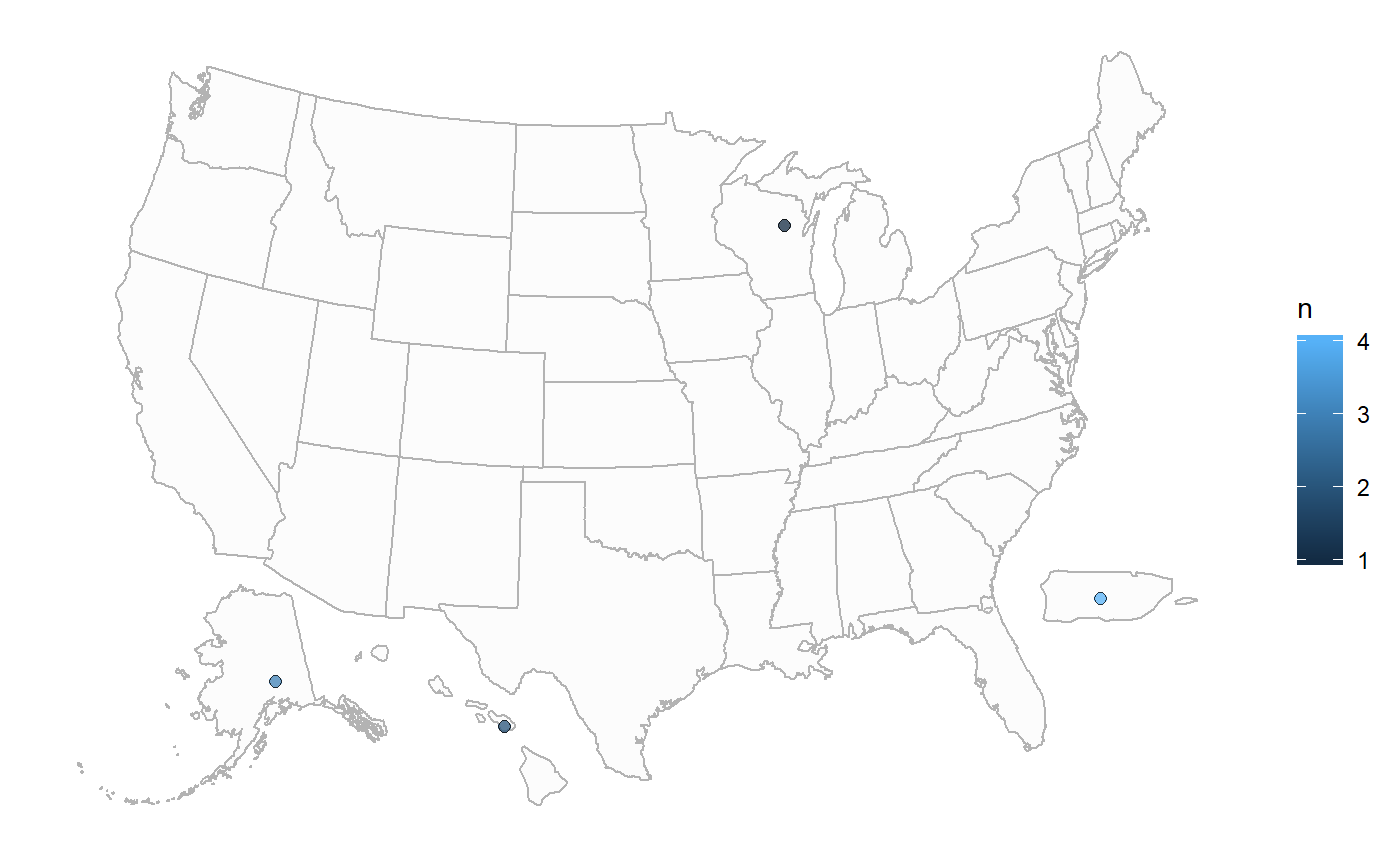
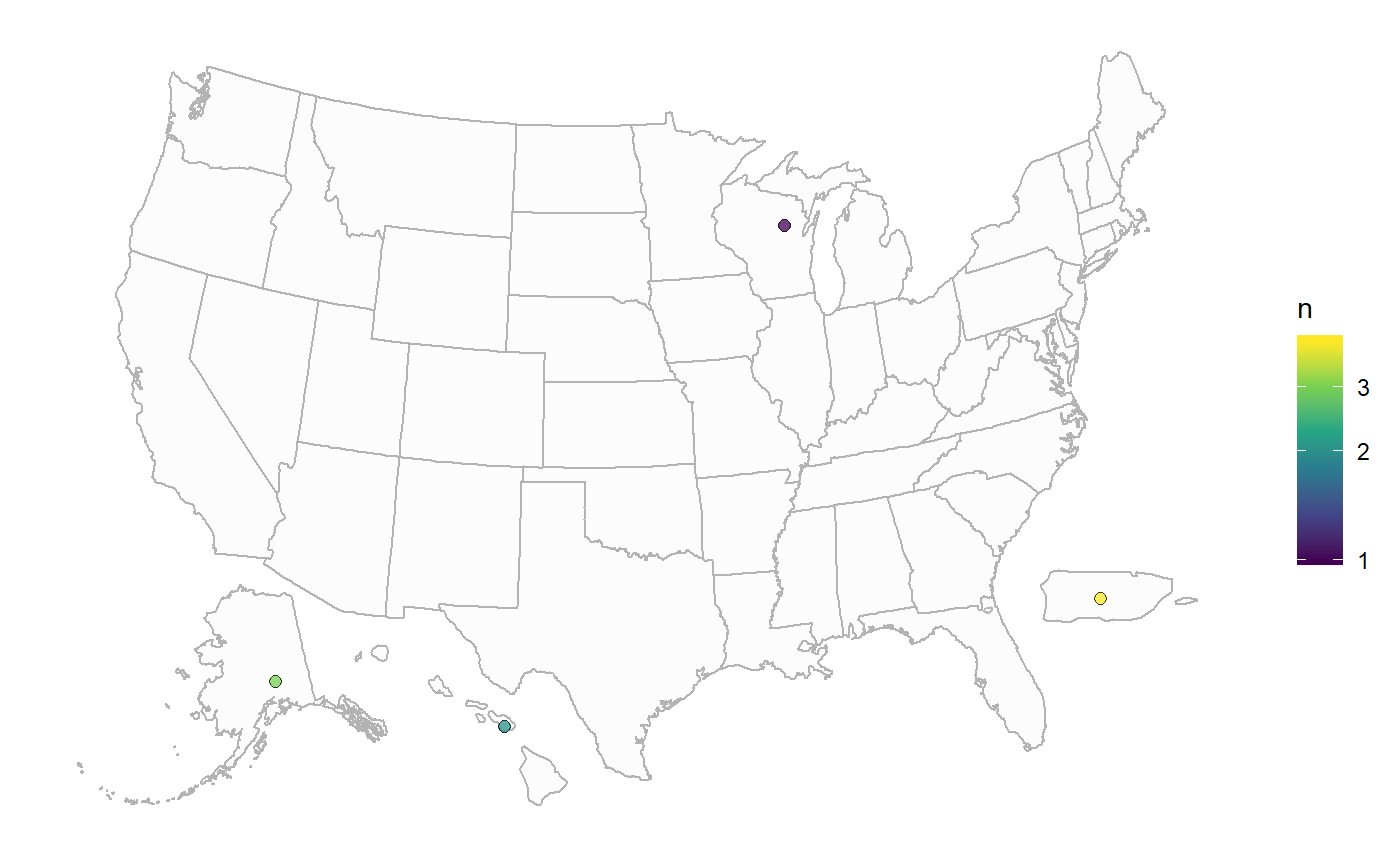
Updating map article

Changed region(s): [[0.9214, 0.3746, 0.9829, 0.6555], [0.7679, 0.6867, 0.7986, 0.7179]]

diff --git a/docs/articles/usMaps.html b/docs/articles/usMaps.html
@@ -5,7 +5,7 @@
 <meta charset="utf-8">
 <meta http-equiv="X-UA-Compatible" content="IE=edge">
 <meta name="viewport" content="width=device-width, initial-scale=1.0">
-<title>Map Stuff • dataRetrieval</title>
+<title>Mapping Points • dataRetrieval</title>
 <!-- favicons --><link rel="icon" type="image/png" sizes="16x16" href="../favicon-16x16.png">
 <link rel="icon" type="image/png" sizes="32x32" href="../favicon-32x32.png">
 <link rel="apple-touch-icon" type="image/png" sizes="180x180" href="../apple-touch-icon.png">
@@ -16,7 +16,7 @@
 <script src="https://cdnjs.cloudflare.com/ajax/libs/twitter-bootstrap/3.3.7/js/bootstrap.min.js" integrity="sha256-U5ZEeKfGNOja007MMD3YBI0A3OSZOQbeG6z2f2Y0hu8=" crossorigin="anonymous"></script><!-- Font Awesome icons --><link rel="stylesheet" href="https://cdnjs.cloudflare.com/ajax/libs/font-awesome/5.7.1/css/all.min.css" integrity="sha256-nAmazAk6vS34Xqo0BSrTb+abbtFlgsFK7NKSi6o7Y78=" crossorigin="anonymous">
 <link rel="stylesheet" href="https://cdnjs.cloudflare.com/ajax/libs/font-awesome/5.7.1/css/v4-shims.min.css" integrity="sha256-6qHlizsOWFskGlwVOKuns+D1nB6ssZrHQrNj1wGplHc=" crossorigin="anonymous">
 <!-- clipboard.js --><script src="https://cdnjs.cloudflare.com/ajax/libs/clipboard.js/2.0.4/clipboard.min.js" integrity="sha256-FiZwavyI2V6+EXO1U+xzLG3IKldpiTFf3153ea9zikQ=" crossorigin="anonymous"></script><!-- sticky kit --><script src="https://cdnjs.cloudflare.com/ajax/libs/sticky-kit/1.1.3/sticky-kit.min.js" integrity="sha256-c4Rlo1ZozqTPE2RLuvbusY3+SU1pQaJC0TjuhygMipw=" crossorigin="anonymous"></script><!-- pkgdown --><link href="../pkgdown.css" rel="stylesheet">
-<script src="../pkgdown.js"></script><meta property="og:title" content="Map Stuff">
+<script src="../pkgdown.js"></script><meta property="og:title" content="Mapping Points">
 <meta property="og:description" content="">
 <meta property="og:image" content="/logo.png">
 <meta name="twitter:card" content="summary">
@@ -97,7 +97,7 @@
       </header><div class="row">
   <div class="col-md-9 contents">
     <div class="page-header toc-ignore">
-      <h1>Map Stuff</h1>
+      <h1>Mapping Points</h1>
                         <h4 class="author">Laura DeCicco</h4>
             
             <h4 class="date">2019-04-05</h4>
@@ -196,13 +196,14 @@
 <a class="sourceLine" id="cb4-33" title="33">  <span class="kw"><a href="https://www.rdocumentation.org/packages/base/topics/function">return</a></span>(sites.df)</a>
 <a class="sourceLine" id="cb4-34" title="34">  </a>
 <a class="sourceLine" id="cb4-35" title="35">}</a></code></pre></div>
+<p>Then, we create a pretty generic mapping function. This is all <code>ggplot2</code> code, and might be more appropriate outside of a function for complete customization. In this case, we want the ability to create a “quick-and-dirty” map.</p>
 <div class="sourceCode" id="cb5"><pre class="sourceCode r"><code class="sourceCode r"><a class="sourceLine" id="cb5-1" title="1">plot_points_on_map &lt;-<span class="st"> </span><span class="cf">function</span>(x, move_variables, stuff_to_move,</a>
-<a class="sourceLine" id="cb5-2" title="2">                               <span class="dt">scale_by_color =</span> <span class="ot">TRUE</span>, </a>
-<a class="sourceLine" id="cb5-3" title="3">                               <span class="dt">scale_by_size =</span> <span class="ot">FALSE</span>){</a>
-<a class="sourceLine" id="cb5-4" title="4">  </a>
-<a class="sourceLine" id="cb5-5" title="5">  alpha_set &lt;-<span class="st"> </span><span class="fl">0.75</span></a>
-<a class="sourceLine" id="cb5-6" title="6">  base_fill &lt;-<span class="st"> "azure3"</span></a>
-<a class="sourceLine" id="cb5-7" title="7">  </a>
+<a class="sourceLine" id="cb5-2" title="2">                               <span class="dt">pt_size =</span> <span class="dv">2</span>,</a>
+<a class="sourceLine" id="cb5-3" title="3">                               <span class="dt">alpha_set =</span> <span class="fl">0.75</span>,</a>
+<a class="sourceLine" id="cb5-4" title="4">                               <span class="dt">base_fill =</span> <span class="st">"azure3"</span>,</a>
+<a class="sourceLine" id="cb5-5" title="5">                               <span class="dt">scale_by_color =</span> <span class="ot">TRUE</span>, </a>
+<a class="sourceLine" id="cb5-6" title="6">                               <span class="dt">scale_by_size =</span> <span class="ot">FALSE</span>){</a>
+<a class="sourceLine" id="cb5-7" title="7"></a>
 <a class="sourceLine" id="cb5-8" title="8">  <span class="cf">if</span>(<span class="kw"><a href="https://www.rdocumentation.org/packages/base/topics/all">all</a></span>(<span class="kw"><a href="https://www.rdocumentation.org/packages/base/topics/c">c</a></span>(<span class="st">"coords.x1"</span>,<span class="st">"coords.x2"</span>, <span class="st">"n"</span>) <span class="op">%in%</span><span class="st"> </span><span class="kw"><a href="https://www.rdocumentation.org/packages/base/topics/names">names</a></span>(x))){</a>
 <a class="sourceLine" id="cb5-9" title="9">    sites.df &lt;-<span class="st">  </span>x</a>
 <a class="sourceLine" id="cb5-10" title="10">  } <span class="cf">else</span> {</a>
@@ -226,30 +227,32 @@
 <a class="sourceLine" id="cb5-28" title="28">                 <span class="kw">aes</span>(<span class="dt">x =</span> coords.x1, <span class="dt">y=</span>coords.x2, </a>
 <a class="sourceLine" id="cb5-29" title="29">                     <span class="dt">fill =</span> n, <span class="dt">size =</span> n),</a>
 <a class="sourceLine" id="cb5-30" title="30">                 <span class="dt">alpha =</span> alpha_set,</a>
-<a class="sourceLine" id="cb5-31" title="31">                 <span class="dt">color=</span><span class="st">"black"</span>,<span class="dt">pch=</span><span class="dv">21</span>) </a>
-<a class="sourceLine" id="cb5-32" title="32">  } <span class="cf">else</span> <span class="cf">if</span> (scale_by_color){</a>
-<a class="sourceLine" id="cb5-33" title="33">    gsMap &lt;-<span class="st"> </span>gsMap <span class="op">+</span></a>
-<a class="sourceLine" id="cb5-34" title="34"><span class="st">      </span><span class="kw">geom_point</span>(<span class="dt">data =</span> sites.df, </a>
-<a class="sourceLine" id="cb5-35" title="35">                 <span class="kw">aes</span>(<span class="dt">x =</span> coords.x1, <span class="dt">y=</span>coords.x2, </a>
-<a class="sourceLine" id="cb5-36" title="36">                     <span class="dt">fill =</span> n), </a>
-<a class="sourceLine" id="cb5-37" title="37">                 <span class="dt">alpha =</span> alpha_set,</a>
-<a class="sourceLine" id="cb5-38" title="38">                 <span class="dt">size =</span> <span class="dv">2</span>, <span class="dt">color=</span><span class="st">"black"</span>,<span class="dt">pch=</span><span class="dv">21</span>) </a>
-<a class="sourceLine" id="cb5-39" title="39">  } <span class="cf">else</span> <span class="cf">if</span> (scale_by_size){</a>
-<a class="sourceLine" id="cb5-40" title="40">    gsMap &lt;-<span class="st"> </span>gsMap <span class="op">+</span></a>
-<a class="sourceLine" id="cb5-41" title="41"><span class="st">      </span><span class="kw">geom_point</span>(<span class="dt">data =</span> sites.df, </a>
-<a class="sourceLine" id="cb5-42" title="42">                 <span class="kw">aes</span>(<span class="dt">x =</span> coords.x1, <span class="dt">y=</span>coords.x2, </a>
-<a class="sourceLine" id="cb5-43" title="43">                     <span class="dt">size =</span> n), <span class="dt">fill=</span>base_fill, </a>
-<a class="sourceLine" id="cb5-44" title="44">                 <span class="dt">alpha =</span> alpha_set,</a>
-<a class="sourceLine" id="cb5-45" title="45">                 <span class="dt">color=</span><span class="st">"black"</span>,<span class="dt">pch=</span><span class="dv">21</span>) </a>
-<a class="sourceLine" id="cb5-46" title="46">  } <span class="cf">else</span> {</a>
-<a class="sourceLine" id="cb5-47" title="47">    gsMap &lt;-<span class="st"> </span>gsMap <span class="op">+</span></a>
-<a class="sourceLine" id="cb5-48" title="48"><span class="st">      </span><span class="kw">geom_point</span>(<span class="dt">data =</span> sites.df, </a>
-<a class="sourceLine" id="cb5-49" title="49">                 <span class="kw">aes</span>(<span class="dt">x =</span> coords.x1, <span class="dt">y=</span>coords.x2), </a>
-<a class="sourceLine" id="cb5-50" title="50">                 <span class="dt">size =</span> <span class="dv">2</span>, <span class="dt">color=</span><span class="st">"black"</span>,<span class="dt">pch=</span><span class="dv">21</span>,</a>
-<a class="sourceLine" id="cb5-51" title="51">                 <span class="dt">fill=</span>base_fill, <span class="dt">alpha =</span> alpha_set)</a>
-<a class="sourceLine" id="cb5-52" title="52">  }</a>
-<a class="sourceLine" id="cb5-53" title="53">  <span class="kw"><a href="https://www.rdocumentation.org/packages/base/topics/function">return</a></span>(gsMap)</a>
-<a class="sourceLine" id="cb5-54" title="54">}</a></code></pre></div>
+<a class="sourceLine" id="cb5-31" title="31">                 <span class="dt">color=</span><span class="st">"black"</span>,<span class="dt">pch=</span><span class="dv">21</span>) <span class="op">+</span></a>
+<a class="sourceLine" id="cb5-32" title="32"><span class="st">      </span><span class="kw">scale_fill_continuous</span>(<span class="dt">type =</span> <span class="st">"viridis"</span>, <span class="dt">trans =</span> <span class="st">"log10"</span>)</a>
+<a class="sourceLine" id="cb5-33" title="33">  } <span class="cf">else</span> <span class="cf">if</span> (scale_by_color){</a>
+<a class="sourceLine" id="cb5-34" title="34">    gsMap &lt;-<span class="st"> </span>gsMap <span class="op">+</span></a>
+<a class="sourceLine" id="cb5-35" title="35"><span class="st">      </span><span class="kw">geom_point</span>(<span class="dt">data =</span> sites.df, </a>
+<a class="sourceLine" id="cb5-36" title="36">                 <span class="kw">aes</span>(<span class="dt">x =</span> coords.x1, <span class="dt">y=</span>coords.x2, </a>
+<a class="sourceLine" id="cb5-37" title="37">                     <span class="dt">fill =</span> n), </a>
+<a class="sourceLine" id="cb5-38" title="38">                 <span class="dt">alpha =</span> alpha_set,</a>
+<a class="sourceLine" id="cb5-39" title="39">                 <span class="dt">size =</span> pt_size, <span class="dt">color=</span><span class="st">"black"</span>,<span class="dt">pch=</span><span class="dv">21</span>) <span class="op">+</span></a>
+<a class="sourceLine" id="cb5-40" title="40"><span class="st">      </span><span class="kw">scale_fill_continuous</span>(<span class="dt">type =</span> <span class="st">"viridis"</span>, <span class="dt">trans =</span> <span class="st">"log10"</span>)</a>
+<a class="sourceLine" id="cb5-41" title="41">  } <span class="cf">else</span> <span class="cf">if</span> (scale_by_size){</a>
+<a class="sourceLine" id="cb5-42" title="42">    gsMap &lt;-<span class="st"> </span>gsMap <span class="op">+</span></a>
+<a class="sourceLine" id="cb5-43" title="43"><span class="st">      </span><span class="kw">geom_point</span>(<span class="dt">data =</span> sites.df, </a>
+<a class="sourceLine" id="cb5-44" title="44">                 <span class="kw">aes</span>(<span class="dt">x =</span> coords.x1, <span class="dt">y=</span>coords.x2, </a>
+<a class="sourceLine" id="cb5-45" title="45">                     <span class="dt">size =</span> n), <span class="dt">fill=</span>base_fill, </a>
+<a class="sourceLine" id="cb5-46" title="46">                 <span class="dt">alpha =</span> alpha_set,</a>
+<a class="sourceLine" id="cb5-47" title="47">                 <span class="dt">color=</span><span class="st">"black"</span>,<span class="dt">pch=</span><span class="dv">21</span>) </a>
+<a class="sourceLine" id="cb5-48" title="48">  } <span class="cf">else</span> {</a>
+<a class="sourceLine" id="cb5-49" title="49">    gsMap &lt;-<span class="st"> </span>gsMap <span class="op">+</span></a>
+<a class="sourceLine" id="cb5-50" title="50"><span class="st">      </span><span class="kw">geom_point</span>(<span class="dt">data =</span> sites.df, </a>
+<a class="sourceLine" id="cb5-51" title="51">                 <span class="kw">aes</span>(<span class="dt">x =</span> coords.x1, <span class="dt">y=</span>coords.x2), </a>
+<a class="sourceLine" id="cb5-52" title="52">                 <span class="dt">size =</span> pt_size, <span class="dt">color=</span><span class="st">"black"</span>,<span class="dt">pch=</span><span class="dv">21</span>,</a>
+<a class="sourceLine" id="cb5-53" title="53">                 <span class="dt">fill=</span>base_fill, <span class="dt">alpha =</span> alpha_set)</a>
+<a class="sourceLine" id="cb5-54" title="54">  }</a>
+<a class="sourceLine" id="cb5-55" title="55">  <span class="kw"><a href="https://www.rdocumentation.org/packages/base/topics/function">return</a></span>(gsMap)</a>
+<a class="sourceLine" id="cb5-56" title="56">}</a></code></pre></div>
 <p>We’ve fiddled with the scaling, shifting, and rotating to:</p>
 <div class="sourceCode" id="cb6"><pre class="sourceCode r"><code class="sourceCode r"><a class="sourceLine" id="cb6-1" title="1">move_variables &lt;-<span class="st"> </span><span class="kw"><a href="https://www.rdocumentation.org/packages/base/topics/list">list</a></span>(</a>
 <a class="sourceLine" id="cb6-2" title="2">  <span class="dt">AK =</span> <span class="kw"><a href="https://www.rdocumentation.org/packages/base/topics/list">list</a></span>(<span class="dt">scale=</span><span class="fl">0.47</span>, <span class="dt">shift =</span> <span class="kw"><a href="https://www.rdocumentation.org/packages/base/topics/c">c</a></span>(<span class="dv">90</span>,<span class="op">-</span><span class="dv">465</span>), <span class="dt">rotate=</span><span class="op">-</span><span class="dv">50</span>),</a>
@@ -272,7 +275,7 @@
 <a class="sourceLine" id="cb7-7" title="7">                <span class="dt">scale =</span> <span class="dv">1</span><span class="op">:</span><span class="dv">4</span>, <span class="dt">strings_as_factors =</span> <span class="ot">FALSE</span>)</a>
 <a class="sourceLine" id="cb7-8" title="8"><span class="kw">plot_points_on_map</span>(x, move_variables, stuff_to_move)</a></code></pre></div>
 <p><img src="usMaps_files/figure-html/fakePoints-1.png" width="700"></p>
-<p>Now, let’s get some data from <code>dataRetrieval</code>:</p>
+<p>Now, let’s get some data from <code>dataRetrieval</code>. We’ll call the “site” service using <code>readNWISdata</code>, only pulling stream sites that have measured “Phosphorus, water, unfiltered, milligrams per liter as phosphorus” at least 100 times over at least 10 years:</p>
 <div class="sourceCode" id="cb8"><pre class="sourceCode r"><code class="sourceCode r"><a class="sourceLine" id="cb8-1" title="1"><span class="kw"><a href="https://www.rdocumentation.org/packages/base/topics/library">library</a></span>(dataRetrieval)</a>
 <a class="sourceLine" id="cb8-2" title="2"><span class="kw"><a href="https://www.rdocumentation.org/packages/base/topics/library">library</a></span>(dplyr)</a>
 <a class="sourceLine" id="cb8-3" title="3"></a>
@@ -280,104 +283,45 @@
 <a class="sourceLine" id="cb8-5" title="5">failed_sites &lt;-<span class="st"> </span><span class="kw"><a href="https://www.rdocumentation.org/packages/base/topics/c">c</a></span>()</a>
 <a class="sourceLine" id="cb8-6" title="6"></a>
 <a class="sourceLine" id="cb8-7" title="7"><span class="co">#Running this full code takes about 15 minutes:</span></a>
-<a class="sourceLine" id="cb8-8" title="8"></a>
+<a class="sourceLine" id="cb8-8" title="8"><span class="co"># for now, we will not get US territories other than PR:</span></a>
 <a class="sourceLine" id="cb8-9" title="9"><span class="cf">for</span>(i <span class="cf">in</span> stateCd<span class="op">$</span>STUSAB[<span class="kw"><a href="https://www.rdocumentation.org/packages/base/topics/c">c</a></span>(<span class="dv">1</span><span class="op">:</span><span class="dv">51</span>,<span class="dv">55</span>)]){ </a>
-<a class="sourceLine" id="cb8-10" title="10">  </a>
-<a class="sourceLine" id="cb8-11" title="11">  <span class="kw"><a href="https://www.rdocumentation.org/packages/base/topics/cat">cat</a></span>(<span class="st">"Getting:"</span>,i,<span class="st">"</span><span class="ch">\n</span><span class="st">"</span>)</a>
-<a class="sourceLine" id="cb8-12" title="12">  </a>
-<a class="sourceLine" id="cb8-13" title="13">  all_sites &lt;-<span class="st"> </span><span class="kw"><a href="https://www.rdocumentation.org/packages/base/topics/conditions">tryCatch</a></span>({</a>
-<a class="sourceLine" id="cb8-14" title="14">      </a>
-<a class="sourceLine" id="cb8-15" title="15">    sites &lt;-<span class="st"> </span><span class="kw"><a href="../reference/readNWISdata.html">readNWISdata</a></span>(<span class="dt">service =</span> <span class="st">"site"</span>, </a>
-<a class="sourceLine" id="cb8-16" title="16">                            <span class="dt">seriesCatalogOutput=</span><span class="ot">TRUE</span>,</a>
-<a class="sourceLine" id="cb8-17" title="17">                            <span class="dt">siteType=</span><span class="st">"ST"</span>,<span class="dt">hasDataTypeCd=</span><span class="st">"qw"</span>,</a>
-<a class="sourceLine" id="cb8-18" title="18">                            <span class="dt">stateCd =</span> i)</a>
-<a class="sourceLine" id="cb8-19" title="19">    </a>
-<a class="sourceLine" id="cb8-20" title="20">    sites_filtered &lt;-<span class="st"> </span>sites <span class="op">%&gt;%</span></a>
-<a class="sourceLine" id="cb8-21" title="21"><span class="st">      </span><span class="kw"><a href="https://www.rdocumentation.org/packages/stats/topics/filter">filter</a></span>(data_type_cd <span class="op">==</span><span class="st"> "qw"</span>) <span class="op">%&gt;%</span></a>
-<a class="sourceLine" id="cb8-22" title="22"><span class="st">      </span><span class="kw"><a href="https://www.rdocumentation.org/packages/stats/topics/filter">filter</a></span>(count_nu <span class="op">&gt;=</span><span class="st"> </span><span class="dv">40</span>) <span class="op">%&gt;%</span></a>
-<a class="sourceLine" id="cb8-23" title="23"><span class="st">      </span><span class="kw">select</span>(site_no, station_nm, dec_lat_va, dec_long_va, </a>
-<a class="sourceLine" id="cb8-24" title="24">             begin_date, end_date) <span class="op">%&gt;%</span></a>
-<a class="sourceLine" id="cb8-25" title="25"><span class="st">      </span><span class="kw">distinct</span>() <span class="op">%&gt;%</span></a>
-<a class="sourceLine" id="cb8-26" title="26"><span class="st">      </span><span class="kw">mutate</span>(<span class="dt">begin_date =</span> <span class="kw"><a href="https://www.rdocumentation.org/packages/base/topics/as.Date">as.Date</a></span>(begin_date),</a>
-<a class="sourceLine" id="cb8-27" title="27">             <span class="dt">end_date =</span> <span class="kw"><a href="https://www.rdocumentation.org/packages/base/topics/as.Date">as.Date</a></span>(end_date),</a>
-<a class="sourceLine" id="cb8-28" title="28">             <span class="dt">years =</span> (end_date <span class="op">-</span><span class="st"> </span>begin_date)<span class="op">/</span><span class="fl">365.25</span>) <span class="op">%&gt;%</span></a>
-<a class="sourceLine" id="cb8-29" title="29"><span class="st">      </span><span class="kw"><a href="https://www.rdocumentation.org/packages/stats/topics/filter">filter</a></span>(years <span class="op">&gt;</span><span class="st"> </span><span class="dv">10</span>) <span class="op">%&gt;%</span></a>
-<a class="sourceLine" id="cb8-30" title="30"><span class="st">      </span><span class="kw">mutate</span>(<span class="dt">state =</span> i)</a>
-<a class="sourceLine" id="cb8-31" title="31">  </a>
-<a class="sourceLine" id="cb8-32" title="32">    <span class="kw">bind_rows</span>(all_sites, sites_filtered)</a>
-<a class="sourceLine" id="cb8-33" title="33">  },</a>
-<a class="sourceLine" id="cb8-34" title="34">  <span class="dt">error=</span><span class="cf">function</span>(cond) {</a>
-<a class="sourceLine" id="cb8-35" title="35">    <span class="kw"><a href="https://www.rdocumentation.org/packages/base/topics/message">message</a></span>(<span class="st">"***************Errored on"</span>,i,<span class="st">"***********</span><span class="ch">\n</span><span class="st">"</span>)</a>
-<a class="sourceLine" id="cb8-36" title="36">    <span class="kw"><a href="https://www.rdocumentation.org/packages/base/topics/function">return</a></span>(all_sites)</a>
-<a class="sourceLine" id="cb8-37" title="37">  })</a>
-<a class="sourceLine" id="cb8-38" title="38"></a>
-<a class="sourceLine" id="cb8-39" title="39">}</a></code></pre></div>
-<pre><code>## Getting: AL 
-## Getting: AK 
-## Getting: AZ 
-## Getting: AR 
-## Getting: CA 
-## Getting: CO 
-## Getting: CT 
-## Getting: DE 
-## Getting: DC 
-## Getting: FL 
-## Getting: GA 
-## Getting: HI 
-## Getting: ID 
-## Getting: IL 
-## Getting: IN 
-## Getting: IA 
-## Getting: KS 
-## Getting: KY 
-## Getting: LA 
-## Getting: ME 
-## Getting: MD 
-## Getting: MA 
-## Getting: MI 
-## Getting: MN 
-## Getting: MS 
-## Getting: MO 
-## Getting: MT 
-## Getting: NE 
-## Getting: NV 
-## Getting: NH 
-## Getting: NJ 
-## Getting: NM 
-## Getting: NY 
-## Getting: NC 
-## Getting: ND 
-## Getting: OH 
-## Getting: OK 
-## Getting: OR 
-## Getting: PA 
-## Getting: RI 
-## Getting: SC 
-## Getting: SD 
-## Getting: TN 
-## Getting: TX 
-## Getting: UT 
-## Getting: VT 
-## Getting: VA 
-## Getting: WA 
-## Getting: WV 
-## Getting: WI 
-## Getting: WY 
-## Getting: PR</code></pre>
-<div class="sourceCode" id="cb10"><pre class="sourceCode r"><code class="sourceCode r"><a class="sourceLine" id="cb10-1" title="1">unique_sites &lt;-<span class="st"> </span>all_sites <span class="op">%&gt;%</span></a>
-<a class="sourceLine" id="cb10-2" title="2"><span class="st">  </span><span class="kw">group_by</span>(site_no, station_nm, dec_lat_va, dec_long_va) <span class="op">%&gt;%</span></a>
-<a class="sourceLine" id="cb10-3" title="3"><span class="st">  </span><span class="kw">top_n</span>(<span class="dv">1</span>, years) <span class="op">%&gt;%</span></a>
-<a class="sourceLine" id="cb10-4" title="4"><span class="st">  </span><span class="kw"><a href="https://www.rdocumentation.org/packages/base/topics/data.frame">data.frame</a></span>() <span class="op">%&gt;%</span></a>
-<a class="sourceLine" id="cb10-5" title="5"><span class="st">  </span><span class="kw">distinct</span>()</a></code></pre></div>
-<div class="sourceCode" id="cb11"><pre class="sourceCode r"><code class="sourceCode r"><a class="sourceLine" id="cb11-1" title="1"><span class="kw"><a href="https://www.rdocumentation.org/packages/base/topics/library">library</a></span>(dplyr)</a>
-<a class="sourceLine" id="cb11-2" title="2"><span class="kw"><a href="https://www.rdocumentation.org/packages/base/topics/library">library</a></span>(ggplot2)</a>
-<a class="sourceLine" id="cb11-3" title="3"></a>
-<a class="sourceLine" id="cb11-4" title="4">x &lt;-<span class="st"> </span><span class="kw"><a href="https://www.rdocumentation.org/packages/base/topics/data.frame">data.frame</a></span>(<span class="dt">dec_long_va =</span> <span class="dv">-89</span>,</a>
-<a class="sourceLine" id="cb11-5" title="5">                          <span class="dt">dec_lat_va =</span> <span class="dv">45</span>,</a>
-<a class="sourceLine" id="cb11-6" title="6">                          <span class="dt">state_abb =</span> <span class="st">"WI"</span>,</a>
-<a class="sourceLine" id="cb11-7" title="7">                          <span class="dt">scale =</span> <span class="dv">1</span>, <span class="dt">strings_as_factors =</span> <span class="ot">FALSE</span>)</a>
-<a class="sourceLine" id="cb11-8" title="8"><span class="kw">plot_points_on_map</span>(x, move_variables, stuff_to_move)</a></code></pre></div>
-<p><img src="usMaps_files/figure-html/makeMap-1.png" width="700"></p>
+<a class="sourceLine" id="cb8-10" title="10"></a>
+<a class="sourceLine" id="cb8-11" title="11">  all_sites &lt;-<span class="st"> </span><span class="kw"><a href="https://www.rdocumentation.org/packages/base/topics/conditions">tryCatch</a></span>({</a>
+<a class="sourceLine" id="cb8-12" title="12">      </a>
+<a class="sourceLine" id="cb8-13" title="13">    sites &lt;-<span class="st"> </span><span class="kw"><a href="../reference/readNWISdata.html">readNWISdata</a></span>(<span class="dt">service =</span> <span class="st">"site"</span>, </a>
+<a class="sourceLine" id="cb8-14" title="14">                            <span class="dt">seriesCatalogOutput=</span><span class="ot">TRUE</span>,</a>
+<a class="sourceLine" id="cb8-15" title="15">                            <span class="dt">siteType=</span><span class="st">"ST"</span>,<span class="dt">parameterCd=</span><span class="st">"00665"</span>,</a>
+<a class="sourceLine" id="cb8-16" title="16">                            <span class="dt">stateCd =</span> i)</a>
+<a class="sourceLine" id="cb8-17" title="17">    </a>
+<a class="sourceLine" id="cb8-18" title="18">    sites_filtered &lt;-<span class="st"> </span>sites <span class="op">%&gt;%</span></a>
+<a class="sourceLine" id="cb8-19" title="19"><span class="st">      </span><span class="kw"><a href="https://www.rdocumentation.org/packages/stats/topics/filter">filter</a></span>(data_type_cd <span class="op">==</span><span class="st"> "qw"</span>,</a>
+<a class="sourceLine" id="cb8-20" title="20">             count_nu <span class="op">&gt;=</span><span class="st"> </span><span class="dv">100</span>,</a>
+<a class="sourceLine" id="cb8-21" title="21">             parm_cd <span class="op">==</span><span class="st"> "00665"</span>) <span class="op">%&gt;%</span></a>
+<a class="sourceLine" id="cb8-22" title="22"><span class="st">      </span><span class="kw">select</span>(site_no, station_nm, dec_lat_va, dec_long_va, </a>
+<a class="sourceLine" id="cb8-23" title="23">             begin_date, end_date, count_nu) <span class="op">%&gt;%</span></a>
+<a class="sourceLine" id="cb8-24" title="24"><span class="st">      </span><span class="kw">distinct</span>() <span class="op">%&gt;%</span></a>
+<a class="sourceLine" id="cb8-25" title="25"><span class="st">      </span><span class="kw">mutate</span>(<span class="dt">begin_date =</span> <span class="kw"><a href="https://www.rdocumentation.org/packages/base/topics/as.Date">as.Date</a></span>(begin_date),</a>
+<a class="sourceLine" id="cb8-26" title="26">             <span class="dt">end_date =</span> <span class="kw"><a href="https://www.rdocumentation.org/packages/base/topics/as.Date">as.Date</a></span>(end_date),</a>
+<a class="sourceLine" id="cb8-27" title="27">             <span class="dt">years =</span> (end_date <span class="op">-</span><span class="st"> </span>begin_date)<span class="op">/</span><span class="fl">365.25</span>) <span class="op">%&gt;%</span></a>
+<a class="sourceLine" id="cb8-28" title="28"><span class="st">      </span><span class="kw"><a href="https://www.rdocumentation.org/packages/stats/topics/filter">filter</a></span>(years <span class="op">&gt;</span><span class="st"> </span><span class="dv">10</span>) <span class="op">%&gt;%</span></a>
+<a class="sourceLine" id="cb8-29" title="29"><span class="st">      </span><span class="kw">mutate</span>(<span class="dt">state_abb =</span> i,</a>
+<a class="sourceLine" id="cb8-30" title="30">             <span class="dt">scale =</span> count_nu) <span class="op">%&gt;%</span></a>
+<a class="sourceLine" id="cb8-31" title="31"><span class="st">      </span><span class="kw">group_by</span>(site_no, station_nm, </a>
+<a class="sourceLine" id="cb8-32" title="32">               dec_lat_va, dec_long_va, state_abb) <span class="op">%&gt;%</span></a>
+<a class="sourceLine" id="cb8-33" title="33"><span class="st">      </span><span class="kw">top_n</span>(<span class="dv">1</span>, count_nu) <span class="op">%&gt;%</span></a>
+<a class="sourceLine" id="cb8-34" title="34"><span class="st">      </span><span class="kw">distinct</span>() <span class="op">%&gt;%</span></a>
+<a class="sourceLine" id="cb8-35" title="35"><span class="st">      </span><span class="kw">ungroup</span>()</a>
+<a class="sourceLine" id="cb8-36" title="36">  </a>
+<a class="sourceLine" id="cb8-37" title="37">    <span class="kw">bind_rows</span>(all_sites, sites_filtered)</a>
+<a class="sourceLine" id="cb8-38" title="38">  },</a>
+<a class="sourceLine" id="cb8-39" title="39">  <span class="dt">error=</span><span class="cf">function</span>(cond) {</a>
+<a class="sourceLine" id="cb8-40" title="40">    <span class="kw"><a href="https://www.rdocumentation.org/packages/base/topics/message">message</a></span>(<span class="st">"***************Errored on"</span>,i,<span class="st">"***********</span><span class="ch">\n</span><span class="st">"</span>)</a>
+<a class="sourceLine" id="cb8-41" title="41">    <span class="kw"><a href="https://www.rdocumentation.org/packages/base/topics/function">return</a></span>(all_sites)</a>
+<a class="sourceLine" id="cb8-42" title="42">  })</a>
+<a class="sourceLine" id="cb8-43" title="43"></a>
+<a class="sourceLine" id="cb8-44" title="44">}</a></code></pre></div>
+<div class="sourceCode" id="cb9"><pre class="sourceCode r"><code class="sourceCode r"><a class="sourceLine" id="cb9-1" title="1"><span class="kw">plot_points_on_map</span>(all_sites, move_variables, stuff_to_move, <span class="dt">pt_size =</span> <span class="dv">2</span>, <span class="dt">scale_by_color =</span> <span class="ot">TRUE</span>)</a></code></pre></div>
+<p><img src="usMaps_files/figure-html/plotIt-1.png" width="700"></p>
   </div>
 
   <div class="col-md-3 hidden-xs hidden-sm" id="sidebar">
